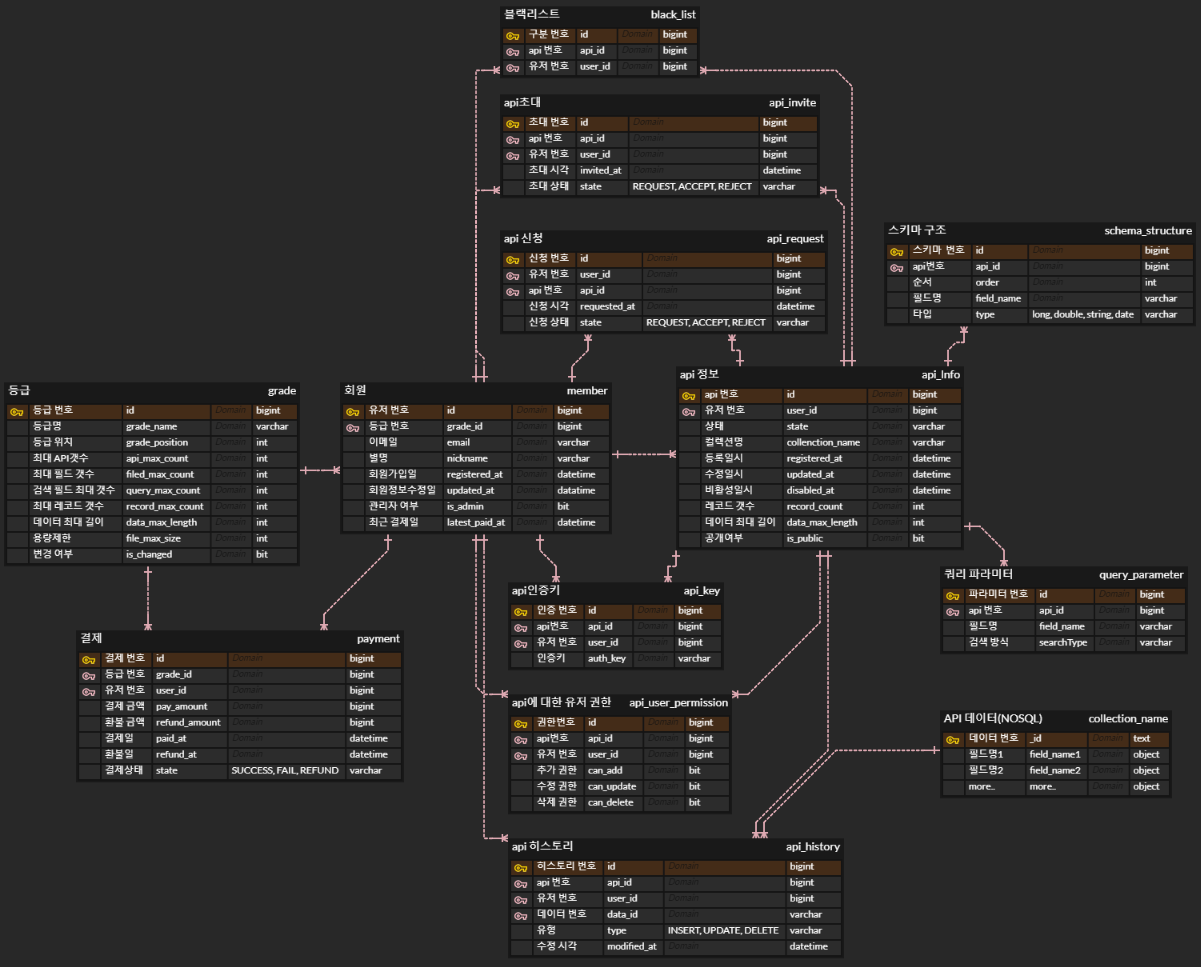
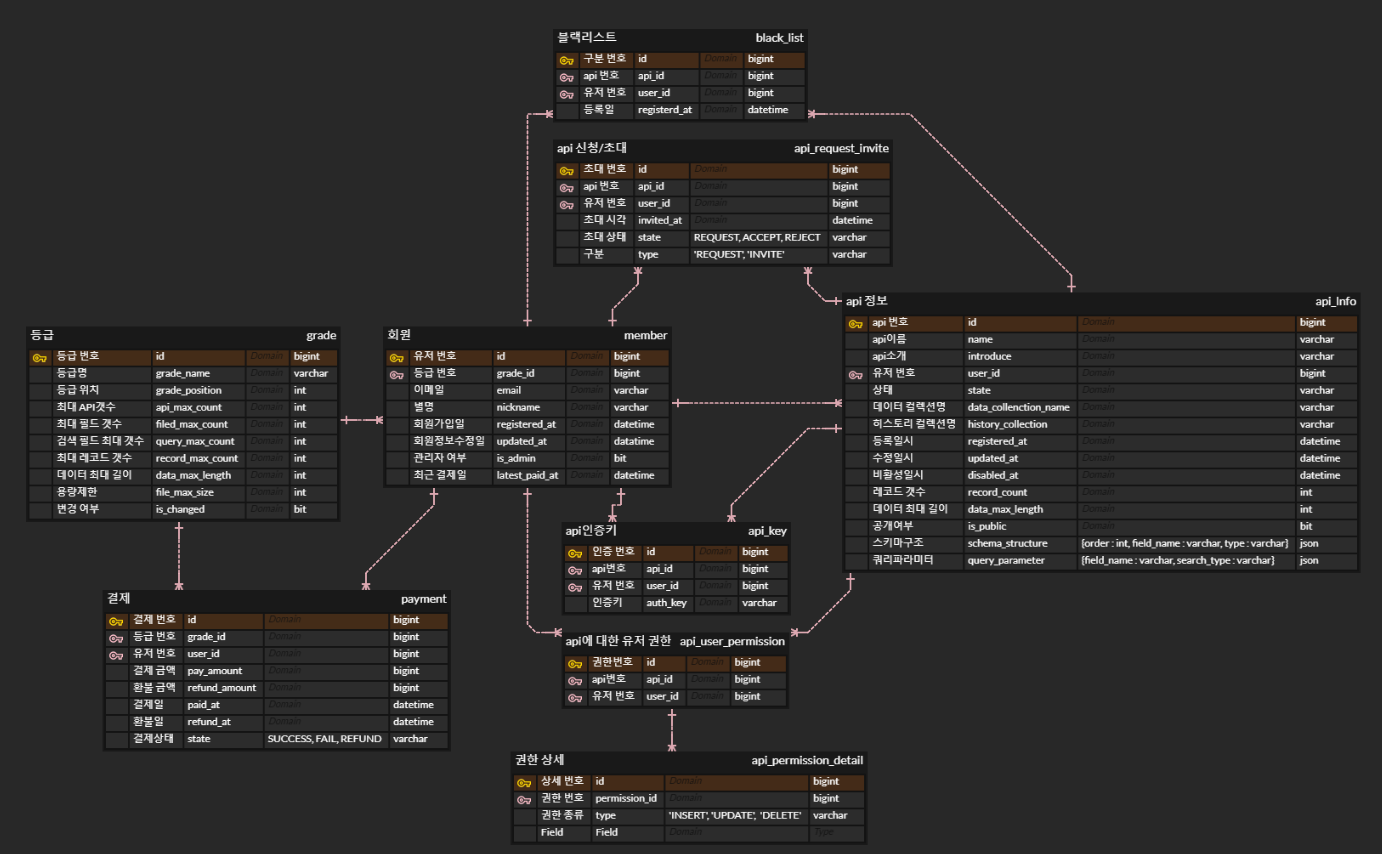
chore : DB구조 변경으로 인한 README.md 수정

diff --git a/README.md b/README.md
@@ -135,7 +135,51 @@ MongoDB에 컬렉션과, 인덱스를 생성하고, 데이터를 삽입해줍니
 
 ### ERD 모델링
 
+#### MySQL
+
 ![ERD](doc/erd/erd.png)
+
+#### MongoDB
+
+- API 데이터
+
+```
+{
+    '_id' : ObjectId(''),
+    'field_1' : Object,
+    'field_2' : Object,
+       . ,
+       . ,
+    'field_N' : Object
+}
+```
+
+- API 히스토리
+
+```
+{
+    '_id' : ObjectId(''),
+    'at' : Date,
+    'user_id' : Int64,
+    'type : String -> ('INSERT', 'UPDATE', 'DELETE'),
+    'original_data' : {  -> (*Optional : UPDATE, DELETE)
+        '_id' : ObjectId(''),
+        'field_1' : Object,
+        'field_2' : Object,
+           . ,
+           . ,
+        'field_N' : Object
+    },
+    'new_data' : {   -> (*Optional : INSERT, UPDATE)
+        '_id' : ObjectId(''),
+        'field_1' : Object,
+        'field_2' : Object,
+           . ,
+           . ,
+        'field_N' : Object
+    }
+}
+```
 
 ---
 
@@ -179,15 +223,15 @@ MongoDB에 컬렉션과, 인덱스를 생성하고, 데이터를 삽입해줍니
 
 ### 의존성
 
-|       의존성       |버전|     용도     |
-|:---------------:|:---:|:----------:|
-|   SpringBoot    |2.7.14| 웹개발 프레임워크  |
-| Spring-Security |2.7.14|     인증     |
-|  Oauth2-client  |2.7.14|   소셜로그인    |
-|  Spring-batch   |2.7.14|   배치 처리    |
-| Spring-mongodb  |2.7.14| MongoDB 사용 |
-|  Spring-redis   |2.7.14|  Redis 사용  |
-|  Spring-kafka   |2.7.14|  kafka 사용  |
-| Spring-data-jpa |2.7.14|ORM|
-| Mysql-Connector |8.0.33|MySQL 연결|
-|     Lombok      |1.18.28|Getter, Setter, Constructor 생성|
+|       의존성       |버전|               용도               |
+|:---------------:|:---:|:------------------------------:|
+|   SpringBoot    |2.7.14|           웹개발 프레임워크            |
+| Spring-Security |2.7.14|               인증               |
+|  Oauth2-client  |2.7.14|             소셜로그인              |
+|  Spring-batch   |2.7.14|             배치 처리              |
+| Spring-mongodb  |2.7.14|         OpenAPI 데이터 저장         |
+|  Spring-redis   |2.7.14|          Locking 및 캐싱          |
+|  Spring-kafka   |2.7.14|        엑셀 파싱을 위한 메세지 전달        |
+| Spring-data-jpa |2.7.14|              ORM               |
+| Mysql-Connector |8.0.33|            MySQL 연결            |
+|     Lombok      |1.18.28| Getter, Setter, Constructor 생성 |
